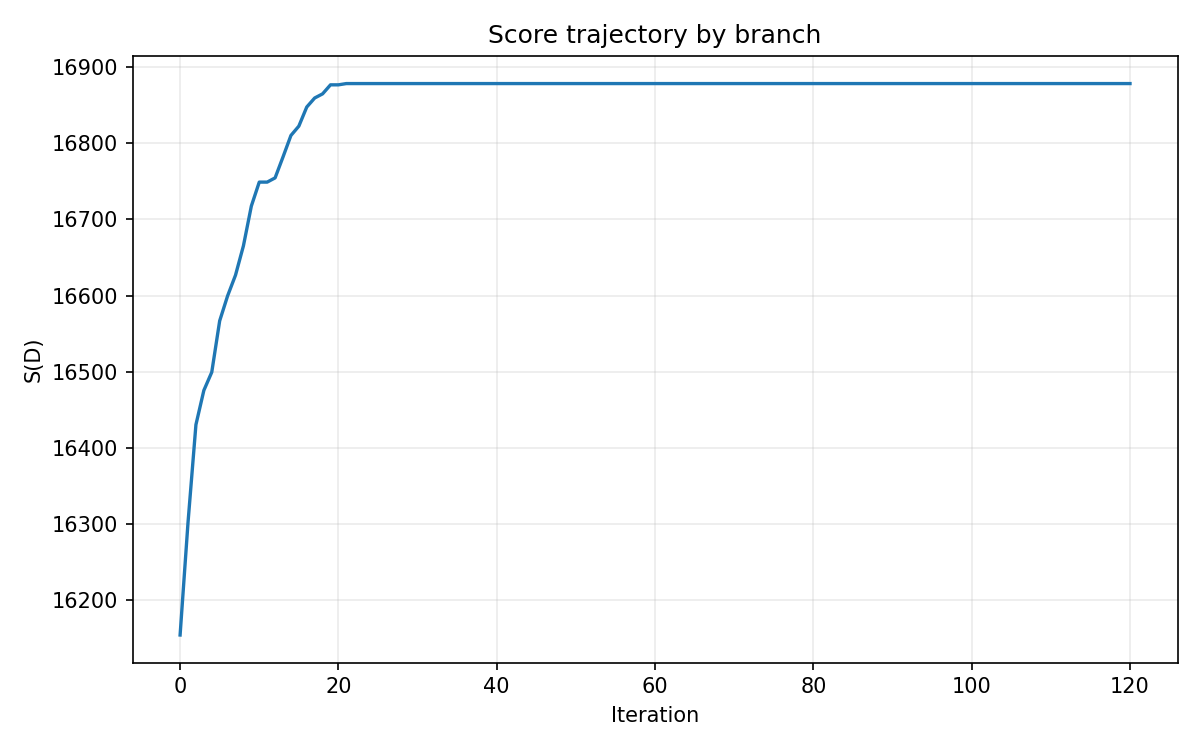
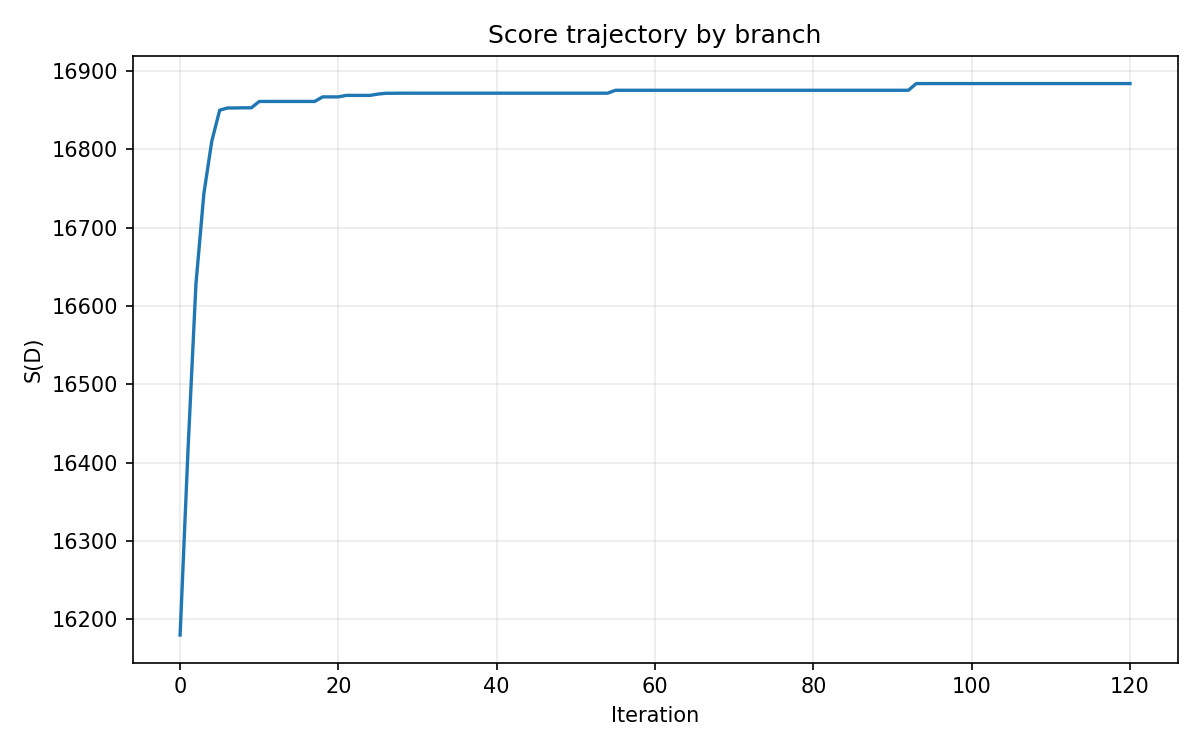
complete the group mode of calculate mask

diff --git a/calculate_my_mask.py b/calculate_my_mask.py
@@ -279,25 +279,31 @@ def select_group_mask(
     ga_population_size = 12
     ga_generations = 120
     ga_offspring = ga_population_size
-    crossover_sym_ratio = 0.7
+    # ====== adaptive schedule block ======
+    level = 1
+    WARMUP = 3
+    STALL_TRIGGER = 3
+    EPS = 1e-8
 
-    def _dynamic_parameter_adjustment(cr: int) -> tuple[float, float]:
-        if cr <= 30:
-            return 3, 4
-        if cr <= 60:
-            return 2, 2
-        return 1, 1
+    cr_ratio = cut_ratio / 100.0
 
-    mutation_scale, local_search_scale = _dynamic_parameter_adjustment(cut_ratio)
-    mutation_ratio = 0.008 * mutation_scale
-    local_search_ratio = 0.015 * local_search_scale
-    k_mut_base = max(1, int(mutation_ratio * target_size))
-    k_ls_base = max(1, int(local_search_ratio * target_size))
+    ls_max = 0.06 - 0.03 * cr_ratio
+    ls_min = 0.3 * ls_max
+    ls_step = (ls_max - ls_min) / 3.0
+    ls_levels = [ls_min + level_idx * ls_step for level_idx in range(4)]
+
+    m_max = 2.0 + 3.0 * (1.0 - cr_ratio)
+    mut_max = 0.01 * m_max
+    mut_min = mut_max / 4.0
+    mut_step = (mut_max - mut_min) / 3.0
+    mut_levels = [mut_min + level_idx * mut_step for level_idx in range(4)]
+
+    C_MAX = 0.9
+    c_min = 0.7 - 0.2 * cr_ratio
+    c_step = (C_MAX - c_min) / 3.0
+    c_levels = [c_min + level_idx * c_step for level_idx in range(4)]
 
     stall_counter = 0
-    EPS_IMPROVE = 1e-8
-    STALL_TRIGGER = max(8, ga_generations // 25)
-    STALL_SHAKE = max(20, ga_generations // 8)
 
     cached_real_stats: dict[tuple[int, ...], tuple[float, np.ndarray, np.ndarray]] = {}
 
@@ -374,20 +380,6 @@ def select_group_mask(
             "counts": counts,
         }
 
-    def _adaptive_mutation_and_search(
-        k_mut_base_value: int,
-        k_ls_base_value: int,
-        stall_steps: int,
-        max_steps: int,
-    ) -> tuple[int, int]:
-        k_mut = k_mut_base_value
-        k_ls = k_ls_base_value
-        if stall_steps >= max_steps:
-            max_exchange = max(0, num_samples - target_size)
-            k_mut = min(k_mut_base_value * 2, max_exchange)
-            k_ls = min(k_ls_base_value * 2, max_exchange)
-        return k_mut, k_ls
-
     def _local_search_step(child: np.ndarray, proxy_scores: np.ndarray, k_ls_value: int) -> np.ndarray:
         k_ls_value = min(k_ls_value, num_samples - child.size, child.size)
         if k_ls_value <= 0:
@@ -458,20 +450,28 @@ def select_group_mask(
 
     best_fitness = max(float(item["fitness"]) for item in population)
 
-    for _ in generation_iter:
+    for gen_idx in generation_iter:
         cur_best = float(population[0]["fitness"])
-        if cur_best > best_fitness + EPS_IMPROVE:
+        if cur_best > best_fitness + EPS:
             best_fitness = cur_best
             stall_counter = 0
         else:
             stall_counter += 1
 
-        k_mut, k_ls = _adaptive_mutation_and_search(
-            k_mut_base,
-            k_ls_base,
-            stall_counter,
-            STALL_TRIGGER,
-        )
+        if gen_idx < WARMUP:
+            level = gen_idx + 1
+        elif stall_counter > 0 and stall_counter % STALL_TRIGGER == 0:
+            if level > 0:
+                level -= 1
+            else:
+                level = 3
+
+        mutation_ratio_eff = mut_levels[level]
+        local_search_ratio_eff = ls_levels[level]
+        crossover_sym_ratio_eff = c_levels[3 - level]
+
+        k_mut = max(1, int(mutation_ratio_eff * target_size))
+        k_ls = max(1, int(local_search_ratio_eff * target_size))
 
         offspring: list[dict[str, object]] = []
         for _offspring_idx in range(ga_offspring):
@@ -484,7 +484,7 @@ def select_group_mask(
             sym = np.setdiff1d(np.union1d(parent_a_idx, parent_b_idx), inter, assume_unique=False)
             child = inter.copy()
 
-            max_from_sym = min(target_size, inter.size + int(np.floor(crossover_sym_ratio * target_size)))
+            max_from_sym = min(target_size, inter.size + int(np.floor(crossover_sym_ratio_eff * target_size)))
             if child.size < target_size and sym.size > 0:
                 need_sym = max(0, max_from_sym - child.size)
                 if need_sym > 0:
@@ -502,11 +502,11 @@ def select_group_mask(
 
             child = _repair_size(child)
 
-            k_mut = min(k_mut, child.size, num_samples - child.size)
-            if k_mut > 0:
-                drop_idx = np.random.choice(child, size=k_mut, replace=False).astype(np.int64)
+            child_k_mut = min(k_mut, child.size, num_samples - child.size)
+            if child_k_mut > 0:
+                drop_idx = np.random.choice(child, size=child_k_mut, replace=False).astype(np.int64)
                 comp_child = np.setdiff1d(np.arange(num_samples, dtype=np.int64), child, assume_unique=False)
-                add_idx = np.random.choice(comp_child, size=k_mut, replace=False).astype(np.int64)
+                add_idx = np.random.choice(comp_child, size=child_k_mut, replace=False).astype(np.int64)
                 child = np.setdiff1d(child, drop_idx, assume_unique=False)
                 child = np.concatenate([child, add_idx])
                 child = _repair_size(child)
@@ -515,14 +515,11 @@ def select_group_mask(
                 parent_a["s_ref"] if float(parent_a["fitness"]) >= float(parent_b["fitness"]) else parent_b["s_ref"],
                 dtype=np.float32,
             )
-            child = _local_search_step(child, proxy_scores, k_ls)
+            child_k_ls = min(k_ls, child.size, num_samples - child.size)
+            child = _local_search_step(child, proxy_scores, child_k_ls)
             child = _repair_size(child)
 
             offspring.append(_evaluate(child))
-
-        if stall_counter >= STALL_SHAKE:
-            offspring.append(_shake(population, k_mut, k_ls))
-            stall_counter = 0
 
         merged = population + offspring
         merged_sorted = sorted(merged, key=lambda item: float(item["fitness"]), reverse=True)
@@ -542,6 +539,17 @@ def select_group_mask(
         generation_best = max(float(item["fitness"]) for item in population)
         best_history.append(generation_best)
         generation_iter.set_postfix({"best_S": f"{generation_best:.4f}"})
+        if gen_idx % 10 == 0:
+            print(
+                (
+                    gen_idx,
+                    level,
+                    k_mut,
+                    k_ls,
+                    round(crossover_sym_ratio_eff, 6),
+                    round(generation_best, 6),
+                )
+            )
 
     # ====== GA 结束后的局部搜索收尾（基于真实动态得分） ======
     # 先取出最优个体的 indices 形式
@@ -556,22 +564,14 @@ def select_group_mask(
     REFINE_MAX_STEPS = 10
     REFINE_EPS = 1e-8
 
-    # 参考 GA 内部的 k_ls_base，设置一个收尾用的步长（避免改动过猛）
+    # 参考 GA 最后一个 level 的 local search 档位，设置收尾用步长（避免改动过猛）
     k_ls_refine = min(
-        max(1, k_ls_base),
+        max(1, int(ls_levels[level] * target_size)),
         best_indices.size,
         max(0, num_samples - best_indices.size),
     )
 
-    # 可以按 cr 略微调整收尾强度：低 cr 多走几步，高 cr 少一点
-    if cut_ratio <= 30:
-        refine_steps = REFINE_MAX_STEPS + 5
-    elif cut_ratio <= 60:
-        refine_steps = REFINE_MAX_STEPS
-    else:
-        refine_steps = REFINE_MAX_STEPS - 2
-
-    refine_steps = max(1, refine_steps)
+    refine_steps = REFINE_MAX_STEPS
 
     for _ in range(refine_steps):
         if k_ls_refine <= 0:
